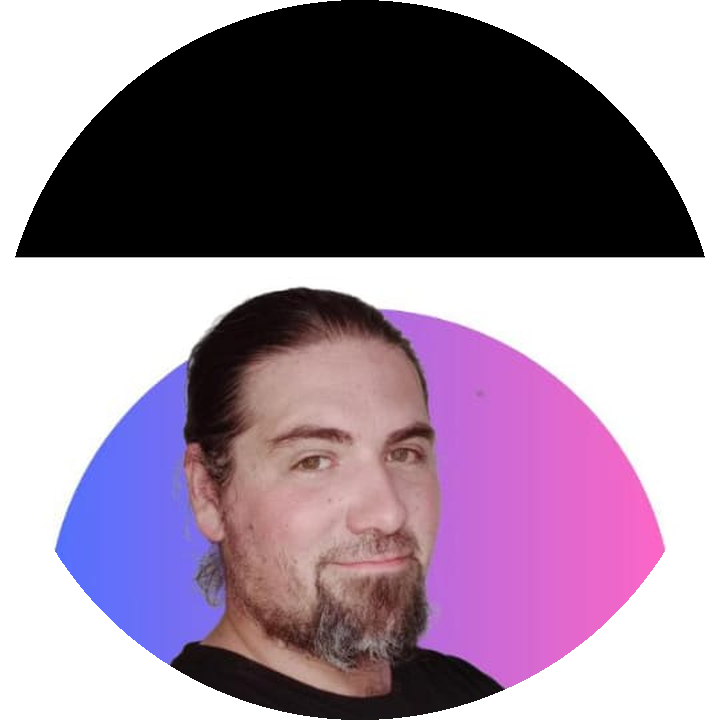
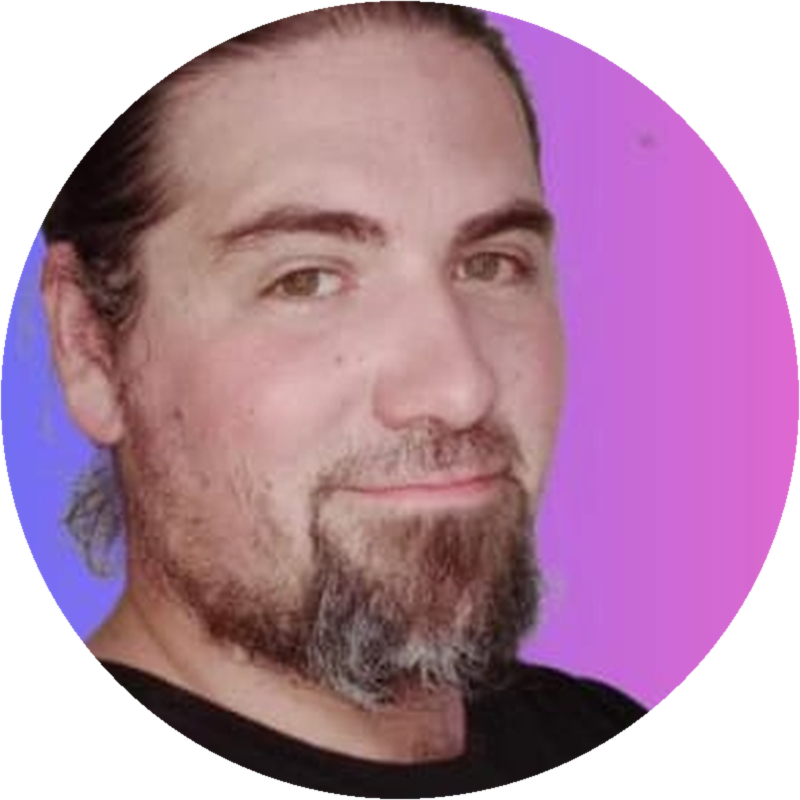
Center Maruko portrait inside the circular frame

diff --git a/src/components/store/store-page.tsx b/src/components/store/store-page.tsx
@@ -259,7 +259,7 @@ function Welcome() {
         <img
           src="/maruko.png"
           alt="Maruko22"
-          className="mx-auto size-44 rounded-full object-cover md:size-56"
+          className="mx-auto size-44 shrink-0 self-center rounded-full object-cover object-center md:size-56"
         />
         <div>
           <p className="font-display text-sm tracking-[0.28em] text-primary">BIENVENIDO</p>
@@ -625,7 +625,7 @@ function Community() {
         <img
           src="/maruko.png"
           alt="Maruko22"
-          className="mx-auto size-36 rounded-full object-cover md:size-44"
+          className="mx-auto size-36 shrink-0 self-center rounded-full object-cover object-center md:size-44"
         />
         <div>
           <p className="font-display text-sm tracking-[0.28em] text-primary">COMUNIDAD</p>
